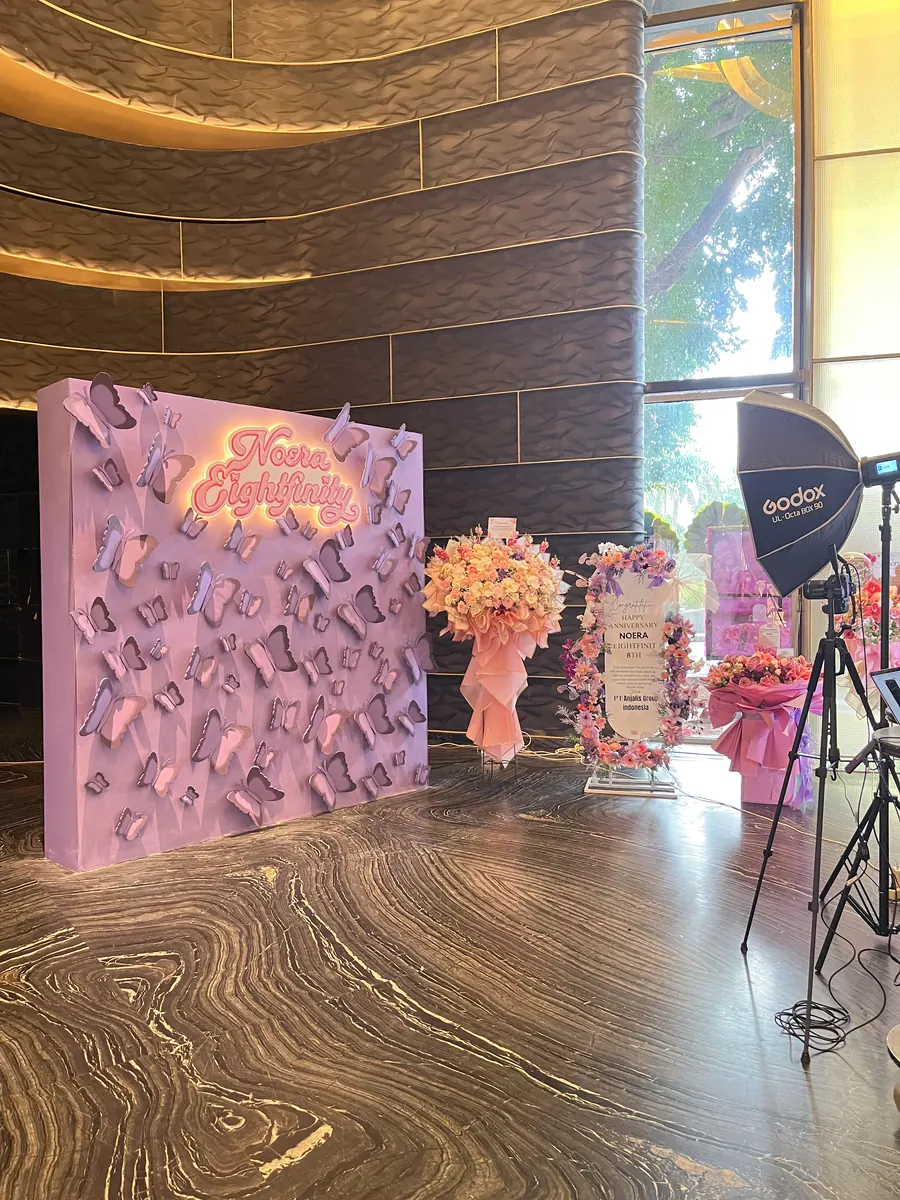
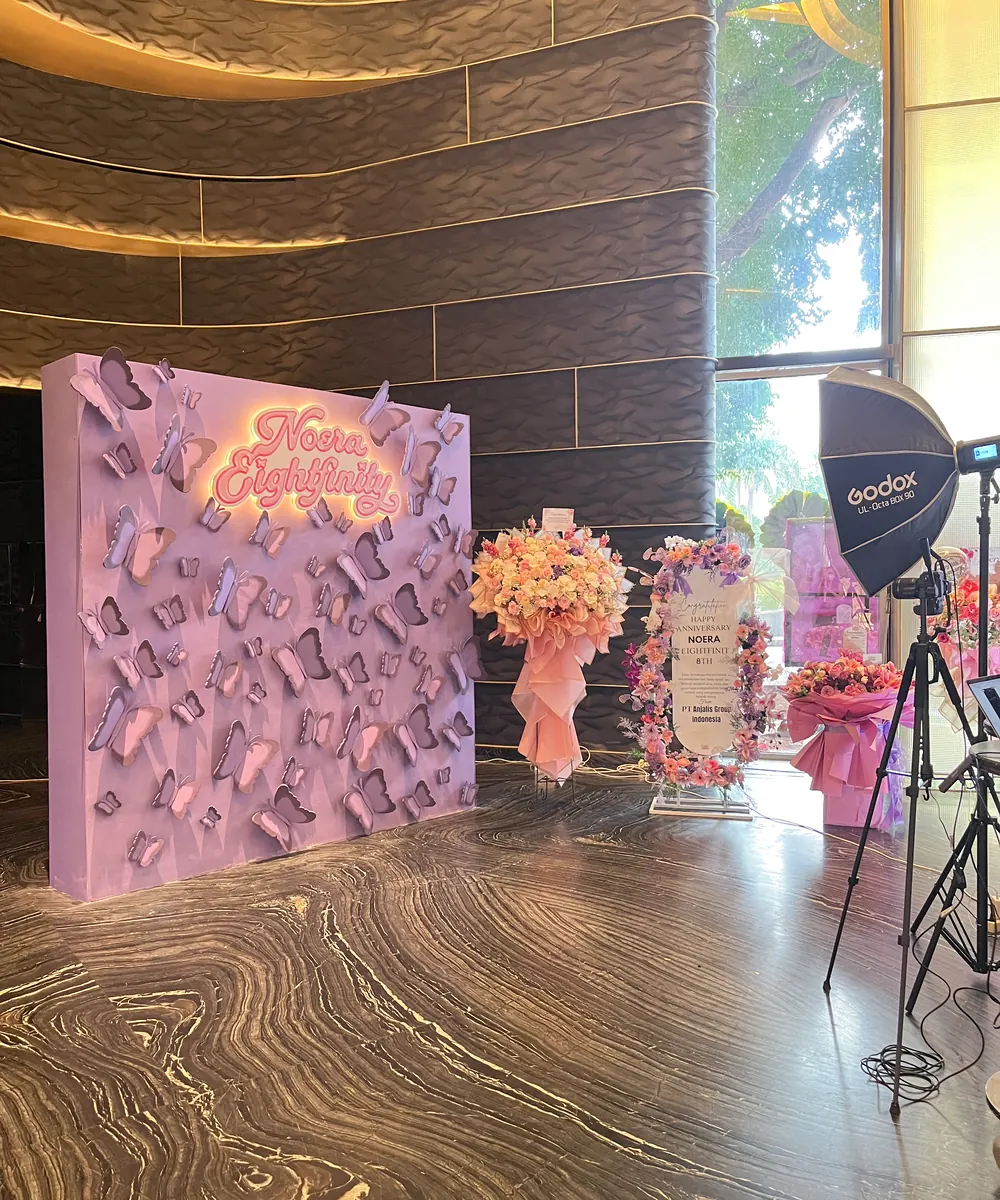
Noera photos cropped to fill the print like the other events

diff --git a/marvin-web/src/data/portfolio.ts b/marvin-web/src/data/portfolio.ts
@@ -29,7 +29,6 @@ export type Collection = {
   wrap?: EventBoothWrap;
   // "whole": the photos are shown uncropped inside the print (white bands where
   // their shape differs from 5:6), for events whose photos are kept as supplied.
-  fit?: "whole";
 };
 
 // Photos of an event, in public/portfolio/events/<event>-01.webp, -02.webp, … in the
@@ -123,31 +122,25 @@ export const collections: readonly Collection[] = [
   {
     id: "noera",
     name: "Noera's 8th Anniversary",
-    // The photos are not cropped (portraits of mixed shapes), so each is listed
-    // with its own size: 1200 px tall, as WebP.
-    images: ([
-      ["Two guests posing at the Noera Eightfinity backdrop while the photographer shoots", 900, 1200],
-      ["Two Noera supplement bottles among pink and lilac flowers", 900, 1200],
-      ["The photographer counting in a couple at the butterfly backdrop, printer beside him", 900, 1200],
-      ["A guest in a lilac gown kissing her Noera Eightfinity print", 675, 1200],
-      ["A guest in a navy jacket pointing at his print", 675, 1200],
-      ["Six guests posing at the backdrop by the anniversary flowers", 900, 1200],
-      ["A guest with a pearl and flower crown holding up her print", 675, 1200],
-      ["A guest in a navy gown with a pearl collar holding her print", 675, 1200],
-      ["A guest in a lace dress showing her print beside the Noera banner", 675, 1200],
-      ["A guest in a plum off-shoulder top holding her print against the gold wall", 674, 1200],
-      ["The photo corner with its light and printer as guests crowd the lobby", 900, 1200],
-      ["The canapé table with sliders, croquettes and tiramisu cups", 900, 1200],
-      ["The curved corridor lined with lilac portrait banners", 900, 1200],
-      ["The butterfly backdrop and anniversary flowers before the guests arrive", 900, 1200],
-      ["Two crew members setting up the laptop and printer by the backdrop", 900, 1200],
-    ] as const).map(([alt, width, height], index) => {
-      const id = `noera-${String(index + 1).padStart(2, "0")}`;
-      return { id, src: `portfolio/events/${id}.webp`, alt, width, height };
-    }),
+    images: eventPhotos("noera", [
+      "Two guests posing at the Noera Eightfinity backdrop while the photographer shoots",
+      "Two Noera supplement bottles among pink and lilac flowers",
+      "The photographer counting in a couple at the butterfly backdrop, printer beside him",
+      "A guest in a lilac gown kissing her Noera Eightfinity print",
+      "A guest in a navy jacket pointing at his print",
+      "Six guests posing at the backdrop by the anniversary flowers",
+      "A guest with a pearl and flower crown holding up her print",
+      "A guest in a navy gown with a pearl collar holding her print",
+      "A guest in a lace dress showing her print beside the Noera banner",
+      "A guest in a plum off-shoulder top holding her print against the gold wall",
+      "The photo corner with its light and printer as guests crowd the lobby",
+      "The canapé table with sliders, croquettes and tiramisu cups",
+      "The curved corridor lined with lilac portrait banners",
+      "The butterfly backdrop and anniversary flowers before the guests arrive",
+      "Two crew members setting up the laptop and printer by the backdrop",
+    ]),
     video: { src: "portfolio/videos/noera.mp4", poster: "portfolio/videos/noera.webp", width: 720, height: 1280, label: "Noera Eightfinity, the 8th anniversary clip" },
     theme: { curtain: "#b9a3e3", sign: "#ffd3e6", sheen: "#9a84cc" },
-    fit: "whole",
   },
 ];
 // Ways to look at an event on the monitor.

diff --git a/marvin-web/src/components/PortfolioGallery.tsx b/marvin-web/src/components/PortfolioGallery.tsx
@@ -4,12 +4,12 @@ import { asset } from "../lib/assets";
 import { wrap } from "../lib/timeline";
 import { BoothModelViewer } from "./BoothModelViewer";
 
-function Portrait({ portrait, front, style, onPick, fit }: {
-  portrait: PortraitData; front: boolean; style: CSSProperties; onPick: () => void; fit?: "whole";
+function Portrait({ portrait, front, style, onPick }: {
+  portrait: PortraitData; front: boolean; style: CSSProperties; onPick: () => void;
 }) {
   const [broken, setBroken] = useState(false);
   return (
-    <figure className="print" data-front={front} data-fit={fit} style={style} aria-hidden={!front} onClick={front ? undefined : onPick}>
+    <figure className="print" data-front={front} style={style} aria-hidden={!front} onClick={front ? undefined : onPick}>
       {broken ? (
         <div className="image-fallback" role="img" aria-label={`${portrait.alt}. Image unavailable.`}>
           <span aria-hidden="true">✳</span>
@@ -148,7 +148,7 @@ export function PortfolioGallery() {
                   } as CSSProperties;
                   return (
                     <Portrait key={`${current.id}-${order}`} portrait={portrait} front={order === frontIndex}
-                      onPick={() => pick(order)} style={style} fit={current.fit} />
+                      onPick={() => pick(order)} style={style} />
                   );
                 })}
               </div>

diff --git a/marvin-web/tests/e2e/booth.spec.ts b/marvin-web/tests/e2e/booth.spec.ts
@@ -87,10 +87,10 @@ test("supplied textures load and gentle wind continues while the rail and camera
   await expect(scene).toHaveAttribute("data-camera", heldCamera!);
 });
 
-test("each event shows its own photos on the ring", async ({ page }) => {
+test("each event shows its own photos on the ring, all cropped to fill the print", async ({ page }) => {
   await page.goto("./#work");
   const photos = page.locator(".ring .print > img");
-  for (const [event, count] of [["ikea", 11], ["wedding", 10]] as const) {
+  for (const [event, count] of [["ikea", 11], ["wedding", 10], ["noera", 15]] as const) {
     await expect(photos).toHaveCount(count);
     for (let index = 0; index < count; index++) {
       const photo = photos.nth(index);
@@ -98,7 +98,7 @@ test("each event shows its own photos on the ring", async ({ page }) => {
       await expect.poll(() => photo.evaluate(image => [(image as HTMLImageElement).naturalWidth,
         (image as HTMLImageElement).naturalHeight])).toEqual([1000, 1200]);
     }
-    if (event === "ikea") await page.getByRole("button", { name: "Next event" }).click();
+    if (event !== "noera") await page.getByRole("button", { name: "Next event" }).click();
   }
 });
 

diff --git a/marvin-web/src/styles/site.css b/marvin-web/src/styles/site.css
@@ -270,7 +270,6 @@ a:focus-visible, button:focus-visible, h2:focus-visible, input:focus-visible + s
 }
 .print:not([data-front="true"]) { cursor: pointer; }
 .print > img, .image-fallback { display: block; width: 100%; height: auto; aspect-ratio: 5 / 6; object-fit: cover; background: #fff; pointer-events: none; }
-.print[data-fit="whole"] > img { object-fit: contain; }
 .image-fallback { display: flex; flex-direction: column; justify-content: center; align-items: center; gap: 6px; background: #ece6d6; padding: 5px; font-size: max(10px, .9em); text-align: center; overflow-wrap: anywhere; }
 .image-fallback > span { font-size: 1.6em; }
 .print figcaption { display: flex; justify-content: flex-start; padding: .7em 0 .8em; }
